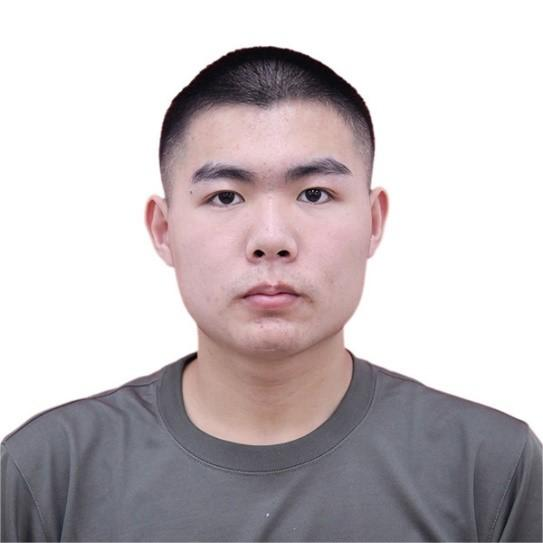
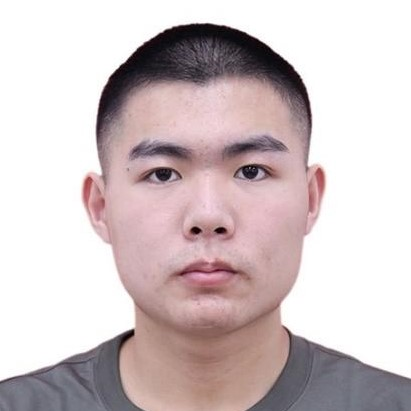
Add files via upload

diff --git a/index.html b/index.html
@@ -958,9 +958,23 @@
             </div>
           </div>
 
-        <p><br /></p>
         <div class="row">
           <div class="col-xs-1"></div>
+
+          <p><br /></p>
+          <div class="col-xs-2">
+            <a href="https://github.com/yongxianLiu">
+              <img class="people-pic" src="2024/img/organizers/石杨思.jpg" />
+            </a>
+            <div class="people-name">
+              <a href="">
+                石杨思
+              </a>
+              <h6>
+                国防科技大学
+              </h6>
+            </div>
+          </div>
           
           <div class="col-xs-2">
             <a href="https://github.com/yongxianLiu">
@@ -1003,6 +1017,11 @@
               </h6>
             </div>
           </div>
+        
+        </div>
+        <p><br /></p>
+        <div class="row">
+          <div class="col-xs-1"></div>
 
           <div class="col-xs-2">
             <a >
@@ -1017,11 +1036,7 @@
               </h6>
             </div>
           </div>
-        </div>
-        <p><br /></p>
-        <div class="row">
-          <div class="col-xs-1"></div>
-          
+
           <div class="col-xs-2">
             <a >
               <img class="people-pic" src="2024/img/organizers/韦晖.jpg" />
